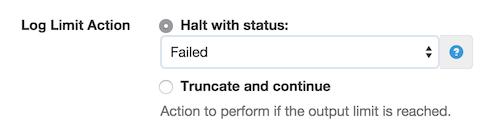
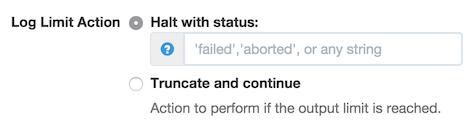
update docs for custom status string

diff --git a/docs/en/manual/04-jobs.md b/docs/en/manual/04-jobs.md
@@ -300,7 +300,8 @@ The syntax of the value you enter determines the type of limit:
 
 And one of three actions can be performed if the limit is exceeded:
 
-* Halt - the job will halt with Failure or Aborted status
+* Halt - the job will halt with a certain status
+	* Enter a status string in the field, such as "failed" or "aborted", or any custom status
 * Truncate and Continue - the job will not halt, but no more log output will be produced.
 
 ![Job Log limit action](../figures/jobs-loglimit-action.png)

diff --git a/docs/en/manpages/man5/job-v20.md b/docs/en/manpages/man5/job-v20.md
@@ -352,10 +352,11 @@ The allowed values for `limitAction` are:
 * `halt` - halt the job with an optional `status`
 * `truncate` - do not halt the job, and truncate all further output
 
-The allowed values for `status` are:
+The allowed values for `status` are any status string:
 
 * `failed` - halt and fail the job
 * `aborted` - halt and abort the job
+* `<anything>` - a custom status string
 
 
 ## schedule

diff --git a/docs/en/manpages/man5/job-yaml-v12.md b/docs/en/manpages/man5/job-yaml-v12.md
@@ -158,6 +158,7 @@ In addition, these optional entries can be present:
 
     * `failed`
     * `aborted`
+    * (any string)
     
 [`options`](#options)
 
